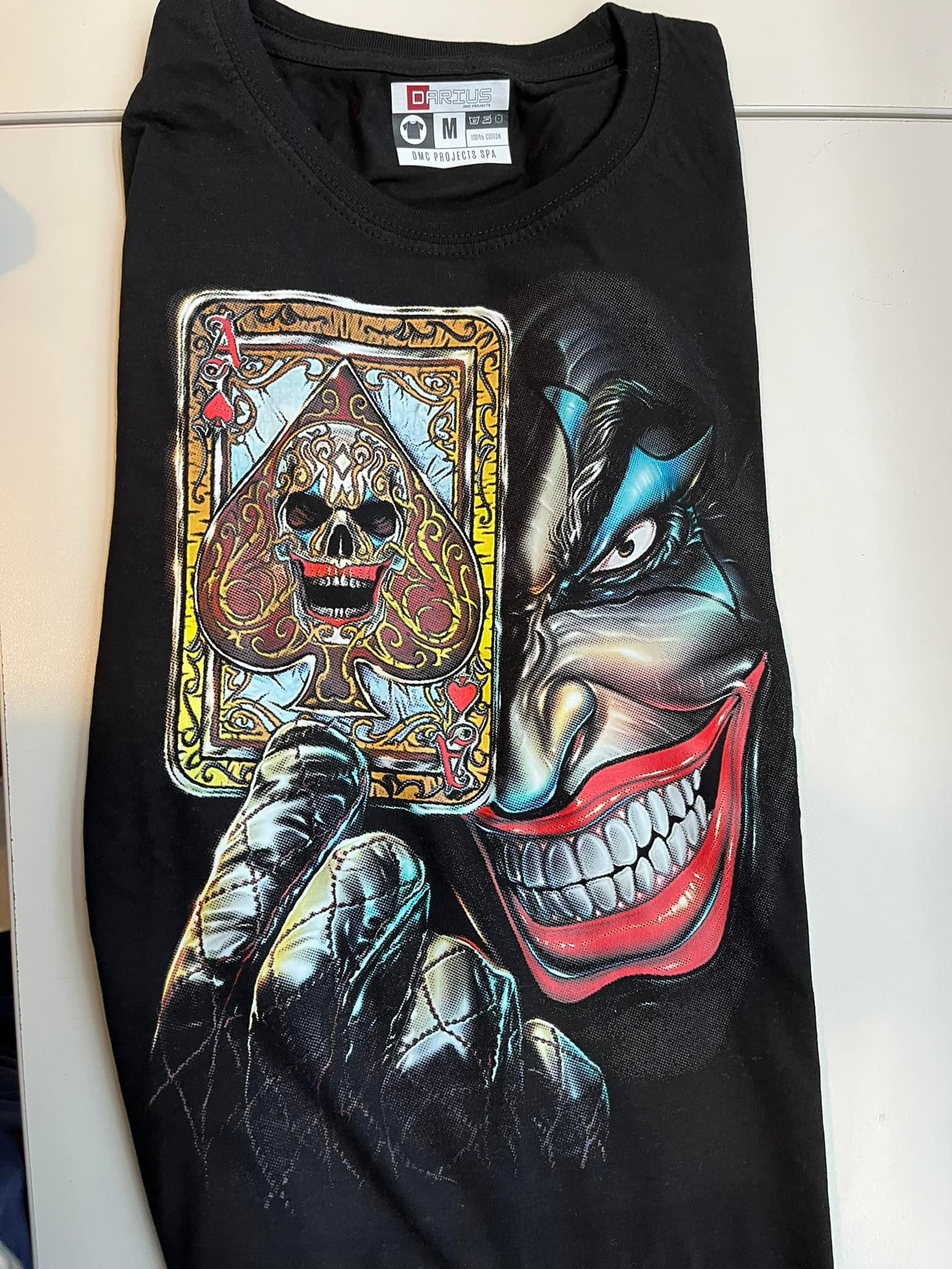
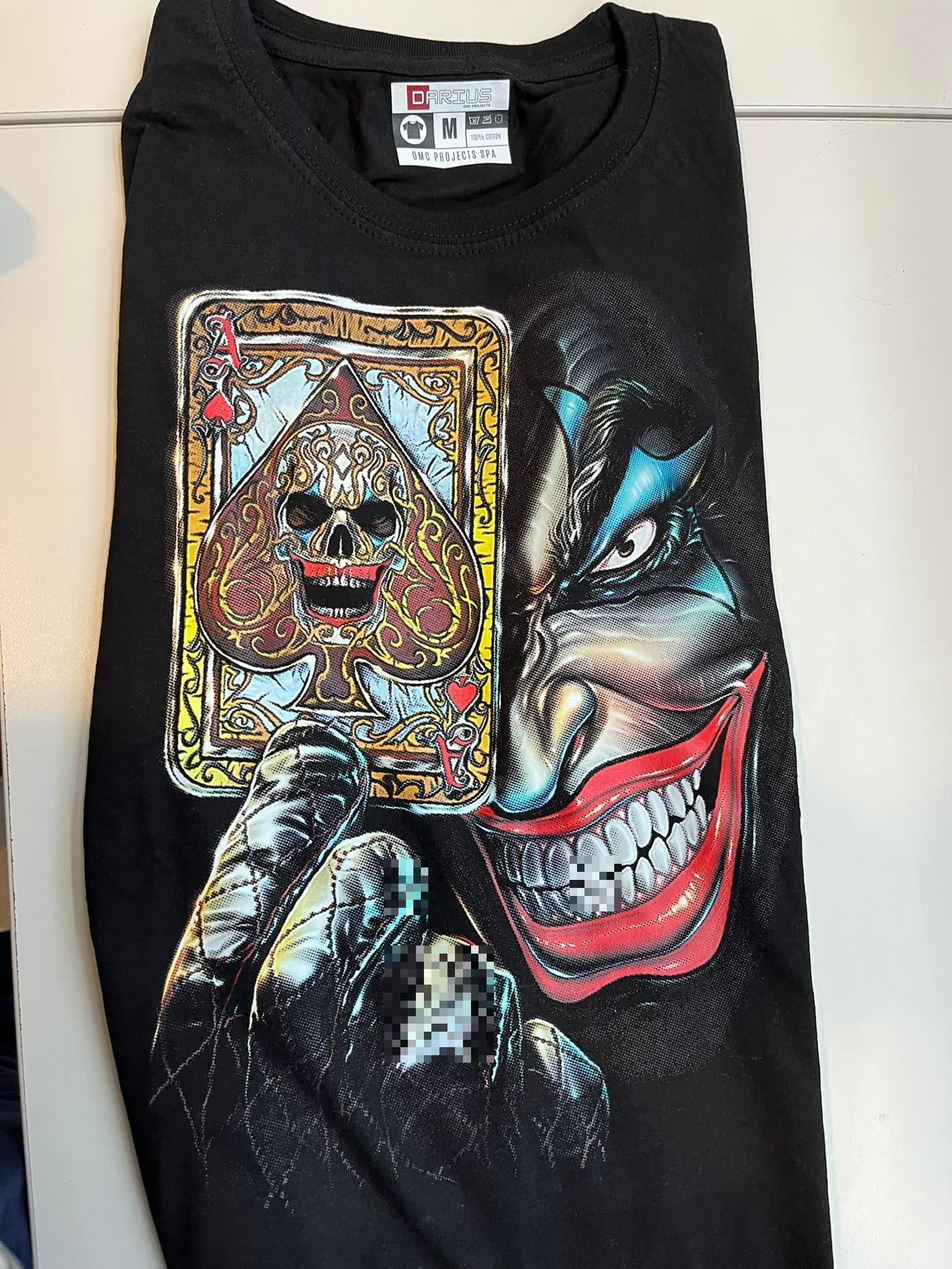
feat: actualizar precios, censurar caras galería y efecto visual
- Actualizar textilPricing: nuevos precios con IVA y nombres correctos
- Reorganizar precios adultos/niños según lista oficial actualizada
- Censurar automáticamente 50 caras detectadas en 11 fotos de galería
- Efecto galería: B&N por defecto → color completo al hacer hover
- Agregar vignette y wash rojo sutil en hover

Changed region(s): [[0.4062, 0.6562, 0.5312, 0.8438], [0.5938, 0.6562, 0.6562, 0.7188]]

diff --git a/src/context/ContentContext.tsx b/src/context/ContentContext.tsx
@@ -215,27 +215,23 @@ const defaultContent: SiteContent = {
   ],
   textilPricing: {
     adultos: [
-      { producto: 'Polera Dogo Premium Hombre', talla: 'S-2XL', precio: 13990 },
-      { producto: 'Polera Piqué Monzha Mujer', talla: 'S-2XL', precio: 17000 },
-      { producto: 'Polera Piqué Pegaso Premium Mujer', talla: 'S-2XL', precio: 17000 },
-      { producto: 'Polera Piqué Tormo', talla: 'S-2XL', precio: 19000 },
-      { producto: 'Polera Dogo Premium', talla: '3XL-4XL', precio: 15990 },
-      { producto: 'Polera Piqué Monzha Hombre', talla: 'S-3XL', precio: 17000 },
-      { producto: 'Canguro', talla: 'S-XL', precio: 20990 },
-      { producto: 'Canguro', talla: 'XXL', precio: 22990 },
-      { producto: 'Polerón Polo', talla: 'S-XL', precio: 16990 },
-      { producto: 'Polerón Polo', talla: 'XXL', precio: 22990 },
-      { producto: 'Polerón Cierre', talla: 'S-XL', precio: 24990 },
-      { producto: 'Polerón Cierre', talla: 'XXL', precio: 24990 },
+      { producto: 'Polera Dogo Premium Hombre', talla: 'S-2XL', precio: 12990 },
+      { producto: 'Polera Piqué Monzha Mujer', talla: 'S-2XL', precio: 15000 },
+      { producto: 'Polera Piqué Pegaso Premium Mujer', talla: 'S-2XL', precio: 16000 },
+      { producto: 'Polera Piqué Tormo', talla: 'S-2XL', precio: 18000 },
+      { producto: 'Polera Dogo Premium 3XL-4XL', talla: '3XL-4XL', precio: 13000 },
+      { producto: 'Polera Piqué Monzha Hombre', talla: 'S-3XL', precio: 15500 },
+      { producto: 'Polerón Canguro adulto', talla: 'S-XL', precio: 28990 },
+      { producto: 'Polerón Canguro adulto', talla: 'XXL', precio: 30500 },
+      { producto: 'Polerón Polo adulto', talla: 'S-XL', precio: 29000 },
+      { producto: 'Polerón Polo adulto', talla: 'XXL', precio: 29990 },
     ],
     ninos: [
       { producto: 'Polera Dogo Premium Niño', talla: '3/4-11/12', precio: 12990 },
-      { producto: 'Canguro', talla: '2-8', precio: 15600 },
-      { producto: 'Canguro', talla: '10-16', precio: 15600 },
-      { producto: 'Polerón Polo', talla: '2-8', precio: 15000 },
-      { producto: 'Polerón Polo', talla: '10-16', precio: 15600 },
-      { producto: 'Polerón Cierre', talla: '2-8', precio: 20990 },
-      { producto: 'Polerón Cierre', talla: '10-16', precio: 22990 },
+      { producto: 'Polerón Canguro niño', talla: '2-8', precio: 19500 },
+      { producto: 'Polerón Canguro niño', talla: '10-16', precio: 20000 },
+      { producto: 'Polerón Polo niño', talla: '2-8', precio: 21000 },
+      { producto: 'Polerón Polo niño', talla: '10-16', precio: 21500 },
     ],
     cotizacion: ['Personalización Empresas', 'Tallas Especiales', 'Pedidos por Mayor'],
   },

diff --git a/src/app/textil/components/gallery.tsx b/src/app/textil/components/gallery.tsx
@@ -122,15 +122,22 @@ export function TextilGallery() {
               onClick={() => openLightbox(index)}
             >
               {/* Image */}
-              <div className={`relative ${index === 0 || index === 5 ? 'h-[500px]' : 'h-60'}`}>
+              <div className={`relative ${index === 0 || index === 5 ? 'h-[500px]' : 'h-60'} overflow-hidden`}>
+                {/* Grayscale → color on hover */}
                 <img
                   src={item.url}
                   alt={item.caption}
-                  className="w-full h-full object-cover transition-transform duration-700 group-hover:scale-110"
+                  className="w-full h-full object-cover transition-all duration-700 group-hover:scale-110 grayscale group-hover:grayscale-0"
                 />
 
-                {/* Overlay */}
-                <div className="absolute inset-0 bg-gradient-to-t from-black/80 via-black/20 to-transparent opacity-0 group-hover:opacity-100 transition-opacity duration-300 z-10" />
+                {/* Vignette permanente */}
+                <div className="absolute inset-0 bg-gradient-to-t from-black/60 via-transparent to-black/10 pointer-events-none z-[5]" />
+
+                {/* Red color wash on hover */}
+                <div className="absolute inset-0 bg-[#ff0040]/0 group-hover:bg-[#ff0040]/10 transition-colors duration-500 z-[6]" />
+
+                {/* Overlay oscuro hover */}
+                <div className="absolute inset-0 bg-gradient-to-t from-black/80 via-black/10 to-transparent opacity-0 group-hover:opacity-100 transition-opacity duration-300 z-10" />
 
                 {/* Zoom Icon */}
                 <motion.div
